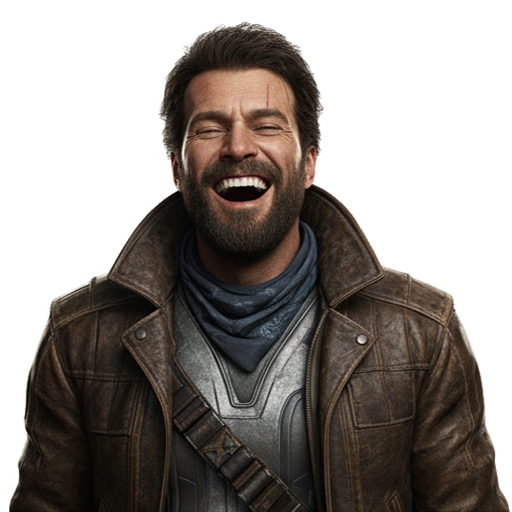
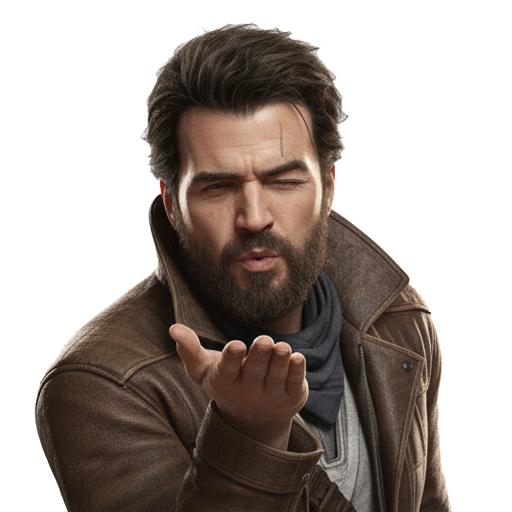
Added my own CSS layout, extra functionality.

diff --git a/quiz.js b/quiz.js
@@ -52,6 +52,14 @@ const quizData = [
 const welcomeSection = document.getElementById("welcomeSection");
 const quizContainer = document.querySelector(".quiz-container");
 const startBtn = document.getElementById("startBtn");
+const questions = document.querySelectorAll(".question");
+const progressFill = document.getElementById("progressFill");
+const imageElement = document.getElementById("quizImage");
+const dialogueBox = document.getElementById("dialogueBox");
+const nextBtn = document.getElementById("nextBtn");
+const submitBtn = document.getElementById("submitBtn");
+let currentQuestion = 0;
+let imageIndex = 5; // Start from neutral image
 
 startBtn.addEventListener("click", () => {
   welcomeSection.style.display = "none";
@@ -59,16 +67,6 @@ startBtn.addEventListener("click", () => {
   questions[currentQuestion].classList.add("active");
   handleAnswerSelection(); // Next button disable logic
 });
-
-const questions = document.querySelectorAll(".question");
-const progressFill = document.getElementById("progressFill");
-const imageElement = document.getElementById("quizImage");
-const dialogueBox = document.getElementById("dialogueBox");
-let currentQuestion = 0;
-let imageIndex = 3;
-
-const nextBtn = document.getElementById("nextBtn");
-const submitBtn = document.getElementById("submitBtn");
 
 // Disable Next button initially
 function handleAnswerSelection() {
@@ -112,7 +110,7 @@ nextBtn.addEventListener("click", () => {
       imageIndex = Math.max(1, imageIndex - 1);
       showDialogue(currentItem.dialogue.correct);
     } else {
-      imageIndex = Math.min(6, imageIndex + 1);
+      imageIndex = Math.min(8, imageIndex + 1);
       showDialogue(currentItem.dialogue.incorrect);
     }
     imageElement.src = `image${imageIndex}.png`;
@@ -150,10 +148,12 @@ document.getElementById("quizForm").addEventListener("submit", function (e) {
 
   if (score >= 3) {
     imageElement.src = "image0.png";
-    showDialogue("Great job! You really know your stuff.");
+    showDialogue(
+      "You're hired, matey. Pack your stuff and get aboard, we're space-bound by sundown."
+    );
   } else {
-    imageElement.src = "image7.png";
-    showDialogue("Better luck next time. Keep practicing!");
+    imageElement.src = "image9.png";
+    showDialogue("Too bad, landlubber... Your ignorance offends me.");
   }
 
   submitBtn.style.display = "none";

diff --git a/index.html b/index.html
@@ -9,20 +9,17 @@
   </head>
   <body>
     <div id="welcomeSection" class="welcome-container">
-      <h2>Welcome to the JavaScript Quiz!</h2>
+      <h2>You know JavaScript, kid?</h2>
       <img src="welcome.png" alt="Welcome Image" />
-      <p>
-        Test your knowledge and see how well you know JavaScript and web
-        development.
-      </p>
+      <div class="welcome-description">
+        <p>
+          I'm in need of a JavaScript engineer, for my smuggling op- uh..
+          <i> perfectly legitimate</i> operations...
+        </p>
+      </div>
       <button id="startBtn" class="btn">Start Quiz</button>
     </div>
     <div class="quiz-container">
-      <h2>JavaScript Quiz</h2>
-      <img id="quizImage" src="image3.png" alt="Quiz Progress Image" />
-      <div id="dialogueBox">
-        <!-- Feedback messages will be injected here -->
-      </div>
       <div class="progress-bar">
         <div class="progress-fill" id="progressFill"></div>
       </div>
@@ -95,6 +92,10 @@
             ><input type="radio" name="q6" value="d" /> Data Orientation
             Model</label
           >
+        </div>
+        <img id="quizImage" src="image5.png" alt="Quiz Progress Image" />
+        <div id="dialogueBox">
+          <!-- Feedback messages will be injected here -->
         </div>
         <button type="button" class="btn" id="nextBtn">Next</button>
         <button type="submit" class="btn" id="submitBtn" style="display: none">

diff --git a/style_old.css b/style_old.css
@@ -2,7 +2,7 @@ body {
   font-family: Arial, sans-serif;
   background: #c0c0c0;
   padding: 20px;
-  background-image: radial-gradient(#363665, transparent);
+  background-image: radial-gradient(black, transparent);
 }
 .quiz-container {
   padding: 20px;
@@ -11,7 +11,7 @@ body {
   margin: auto;
   box-shadow: 0 0 10px rgba(0, 0, 0, 0.1);
   display: none;
-  background-image: radial-gradient(#282831, transparent);
+  background-image: radial-gradient(#3d3d3d, transparent);
 }
 
 .welcome-container {
@@ -21,17 +21,13 @@ body {
   margin: auto;
   box-shadow: 0 0 10px rgba(0, 0, 0, 0.1);
   text-align: center;
-  background-image: radial-gradient(#282831, transparent);
+  background-image: radial-gradient(#3d3d3d, transparent);
 }
 
 .welcome-container img {
   display: block;
   margin: 0px auto;
   width: 100%;
-}
-
-.welcome-container h2 {
-  color: #fff;
 }
 
 .welcome-description {
@@ -73,7 +69,7 @@ h2 {
 .progress-fill {
   height: 100%;
   width: 0%;
-  background: #409780;
+  background: #4caf50;
   transition: width 0.3s ease;
 }
 #quizImage {
